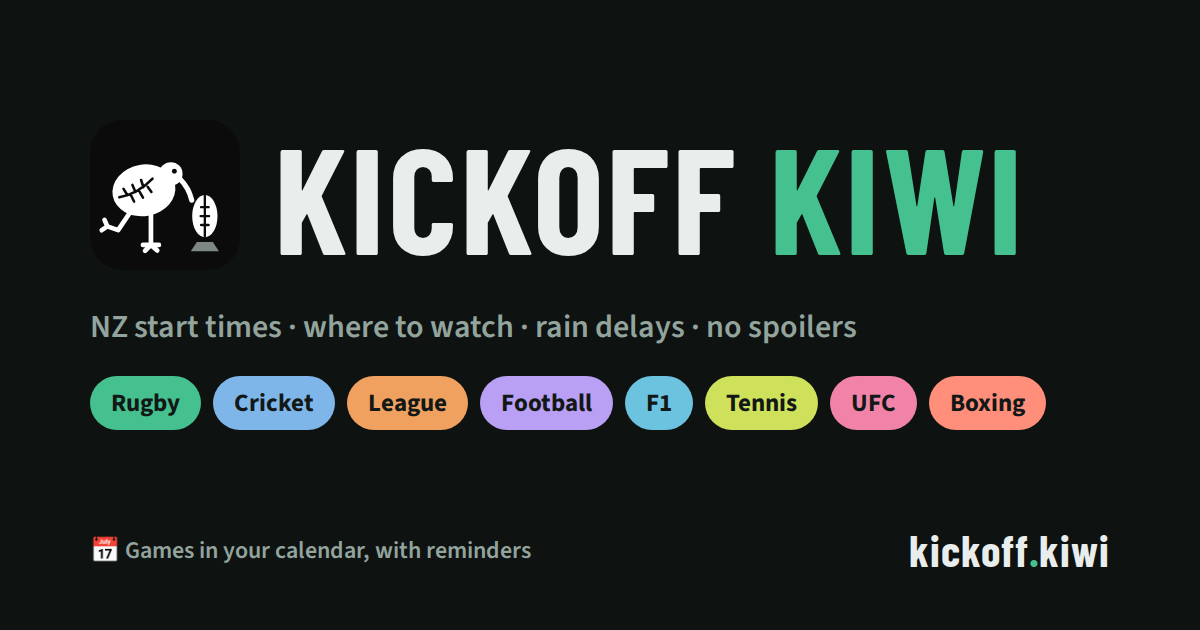
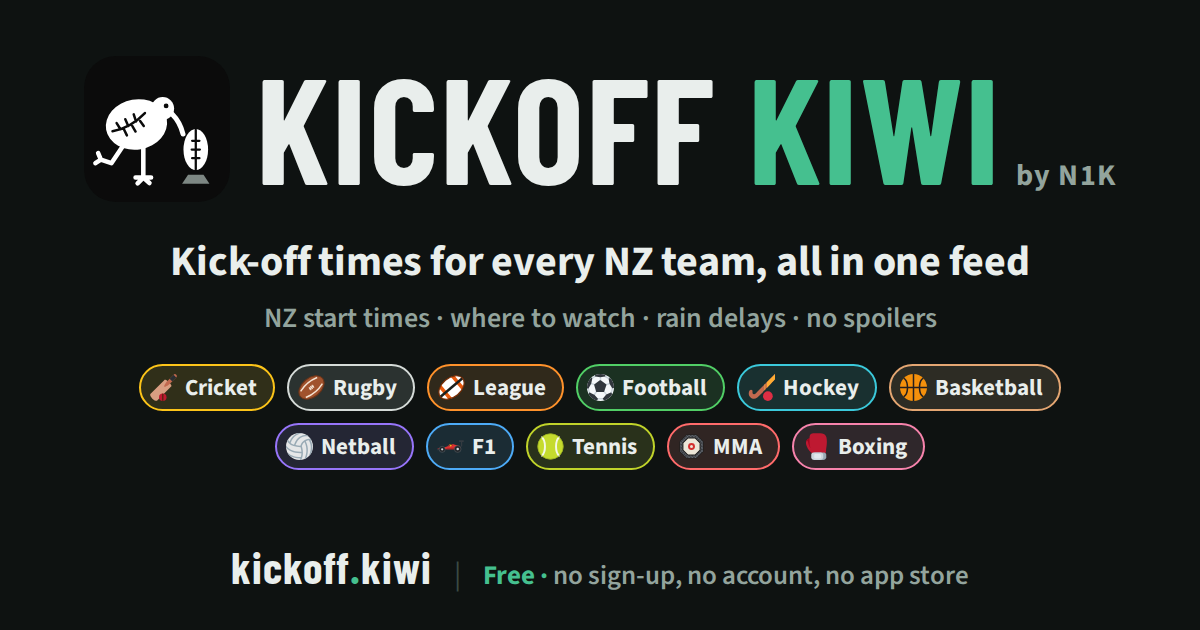
Link preview: new picture and wording (what it is, free, no sign-up)
The card shown when kickoff.kiwi is pasted into a chat: the logo and name bigger with
"by N1K" beside it, "Kick-off times for every NZ team, all in one feed", all eleven
sports in the app's order and colours in two centred rows, and "Free · no sign-up, no
account, no app store". The title and description say the same; no "live scores".

Claude-Session: https://claude.ai/code/session_012KL2nsPobATs45xoskLDtJ

diff --git a/index.html b/index.html
@@ -3,12 +3,12 @@
 <head>
 <meta charset="utf-8">
 <meta name="viewport" content="width=device-width, initial-scale=1, viewport-fit=cover">
-<meta name="description" content="What's on today and this week for New Zealand rugby, cricket and league teams, with NZ start times, where to watch and spoiler-free results.">
+<meta name="description" content="Kick-off times for every NZ team, all in one free feed: rugby, cricket, league, football, hockey, basketball, netball, F1, tennis, MMA and boxing in NZ time, with where to watch and spoiler-free results. No sign-up.">
 <title>Kickoff Kiwi</title>
-<meta property="og:title" content="Kickoff Kiwi">
-<meta property="og:description" content="What's on today and this week for NZ rugby, cricket, league, football and UFC, with NZ start times, where to watch, live scores and spoiler-free results.">
+<meta property="og:title" content="Kickoff Kiwi · kick-off times for every NZ team">
+<meta property="og:description" content="Every NZ team's games in one feed, in NZ time: where to watch, rain delays and spoiler-free results across 11 sports. Free, no sign-up, no account.">
 <meta property="og:type" content="website">
-<meta property="og:image" content="https://kickoff.kiwi/og.png?v=b5">
+<meta property="og:image" content="https://kickoff.kiwi/og.png?v=b6">
 <meta property="og:url" content="https://kickoff.kiwi/">
 <meta name="twitter:card" content="summary_large_image">
 <meta name="theme-color" content="#0d6b4d">
